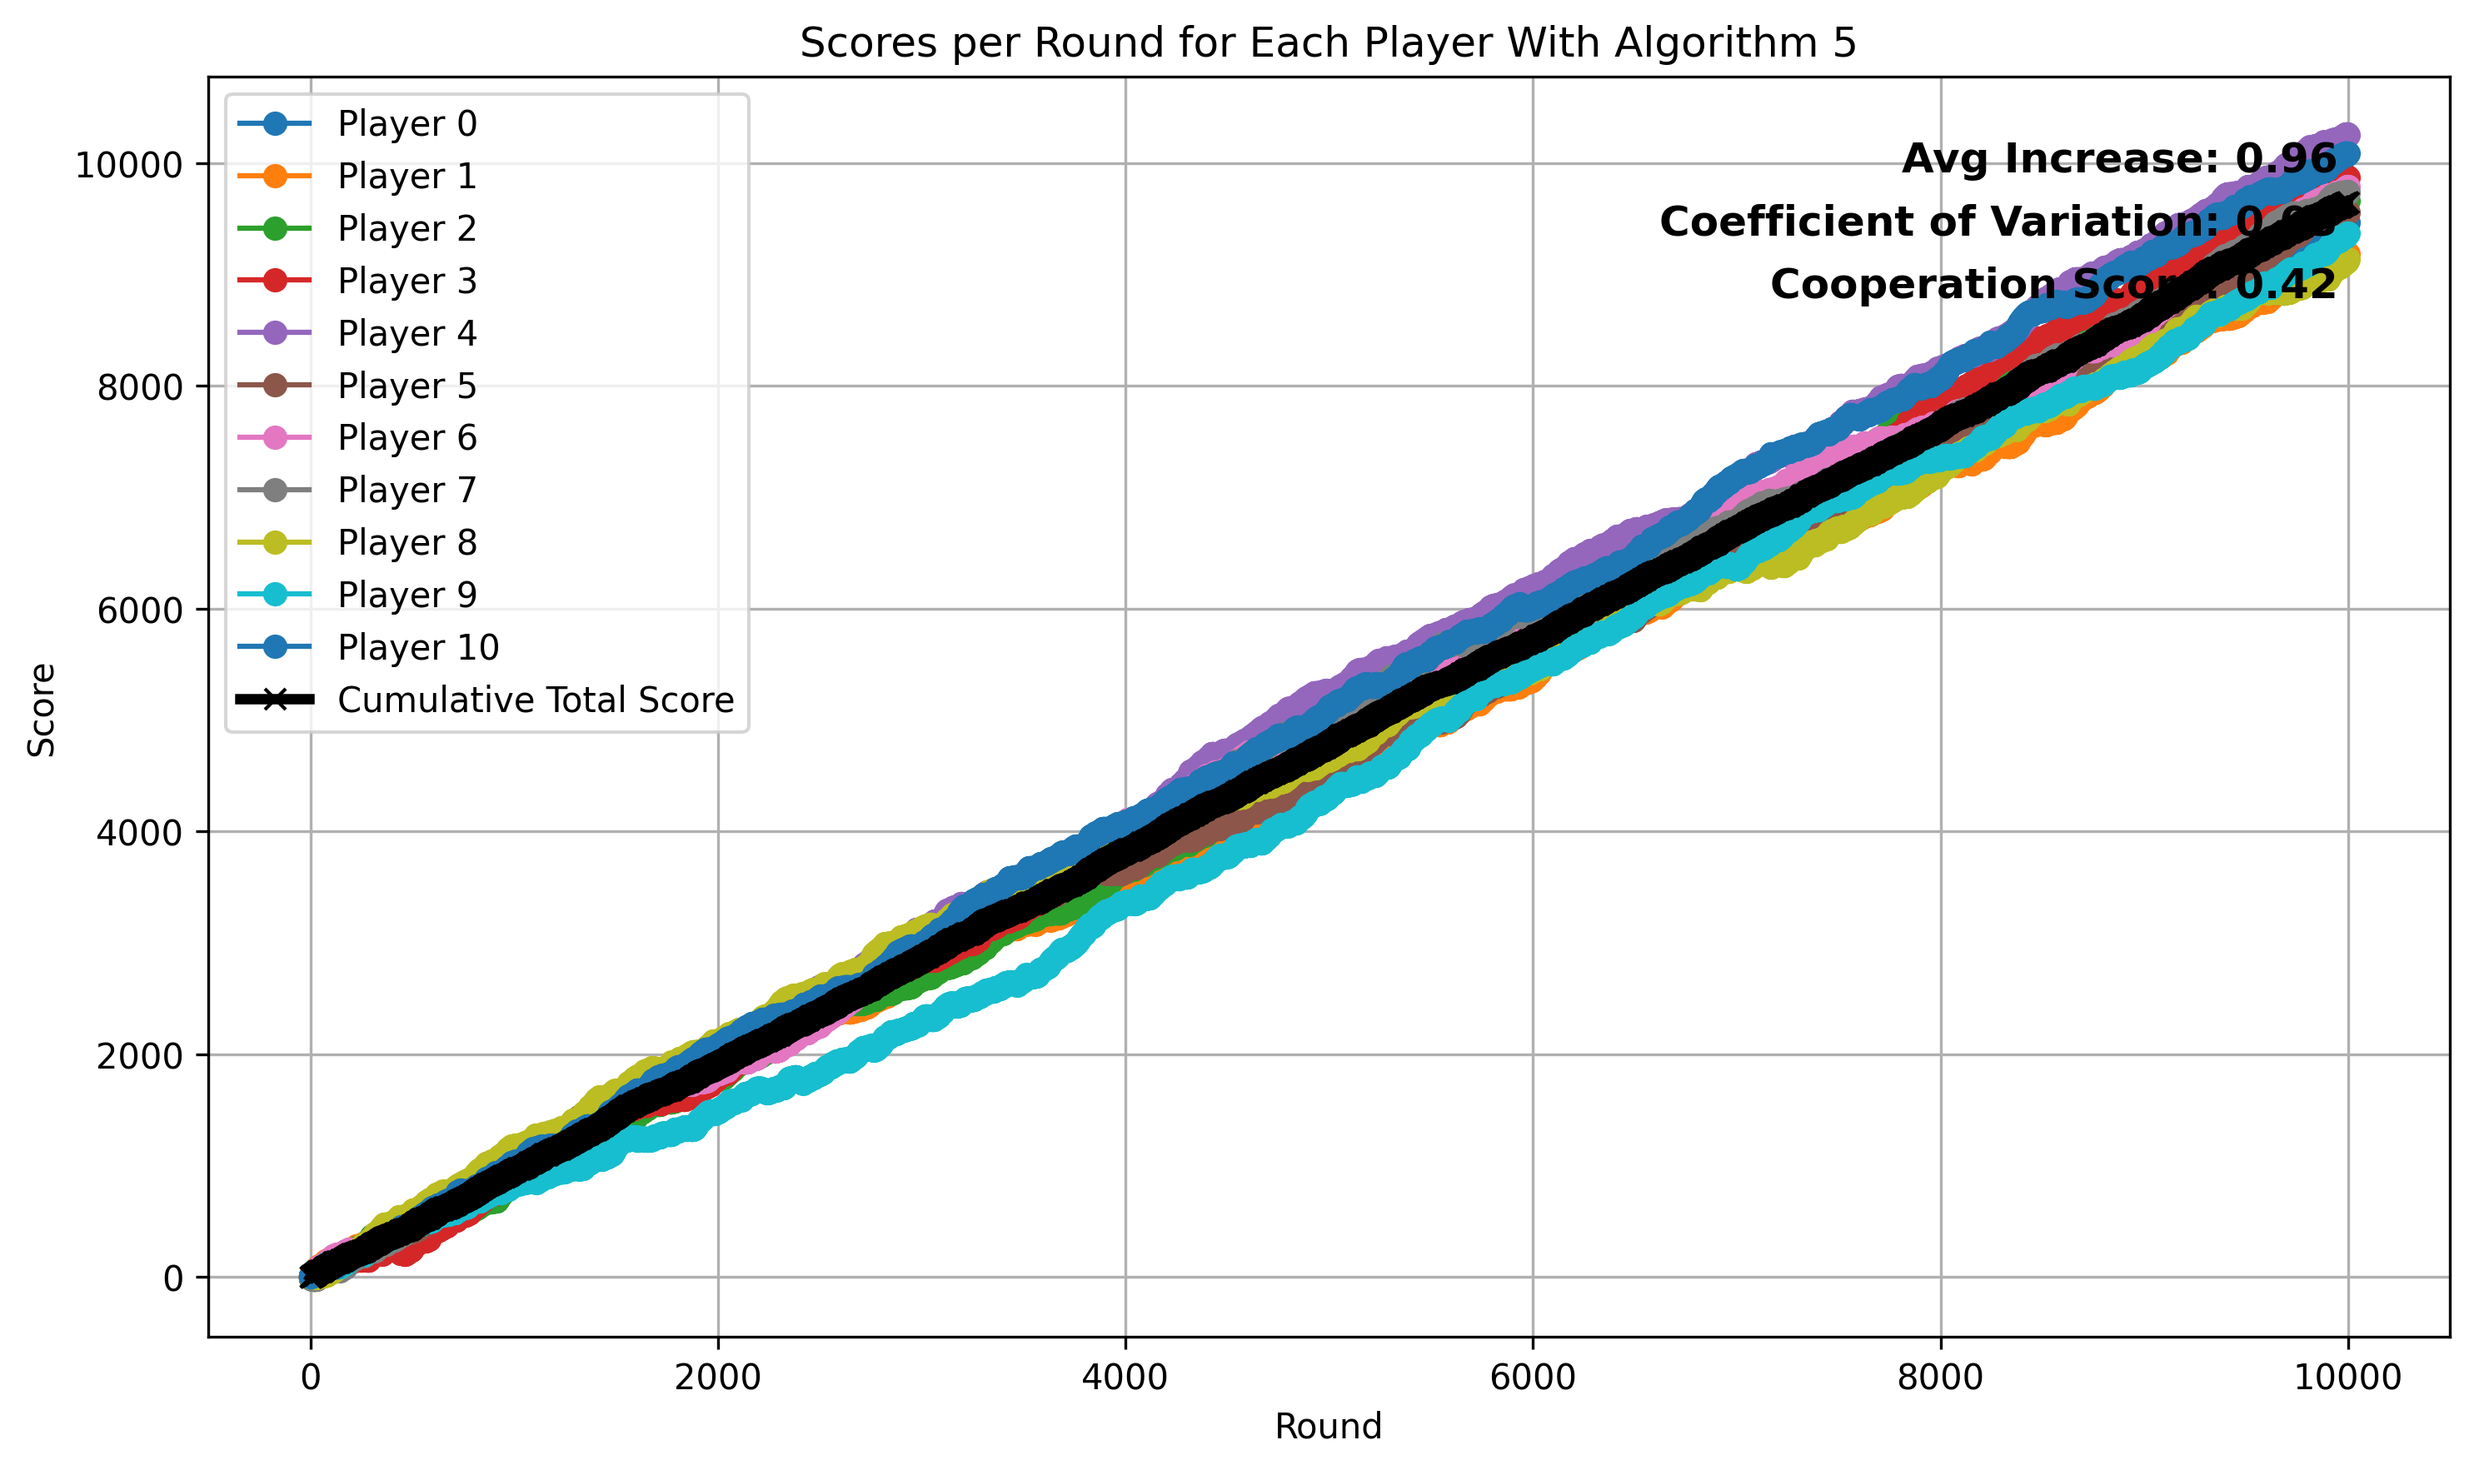
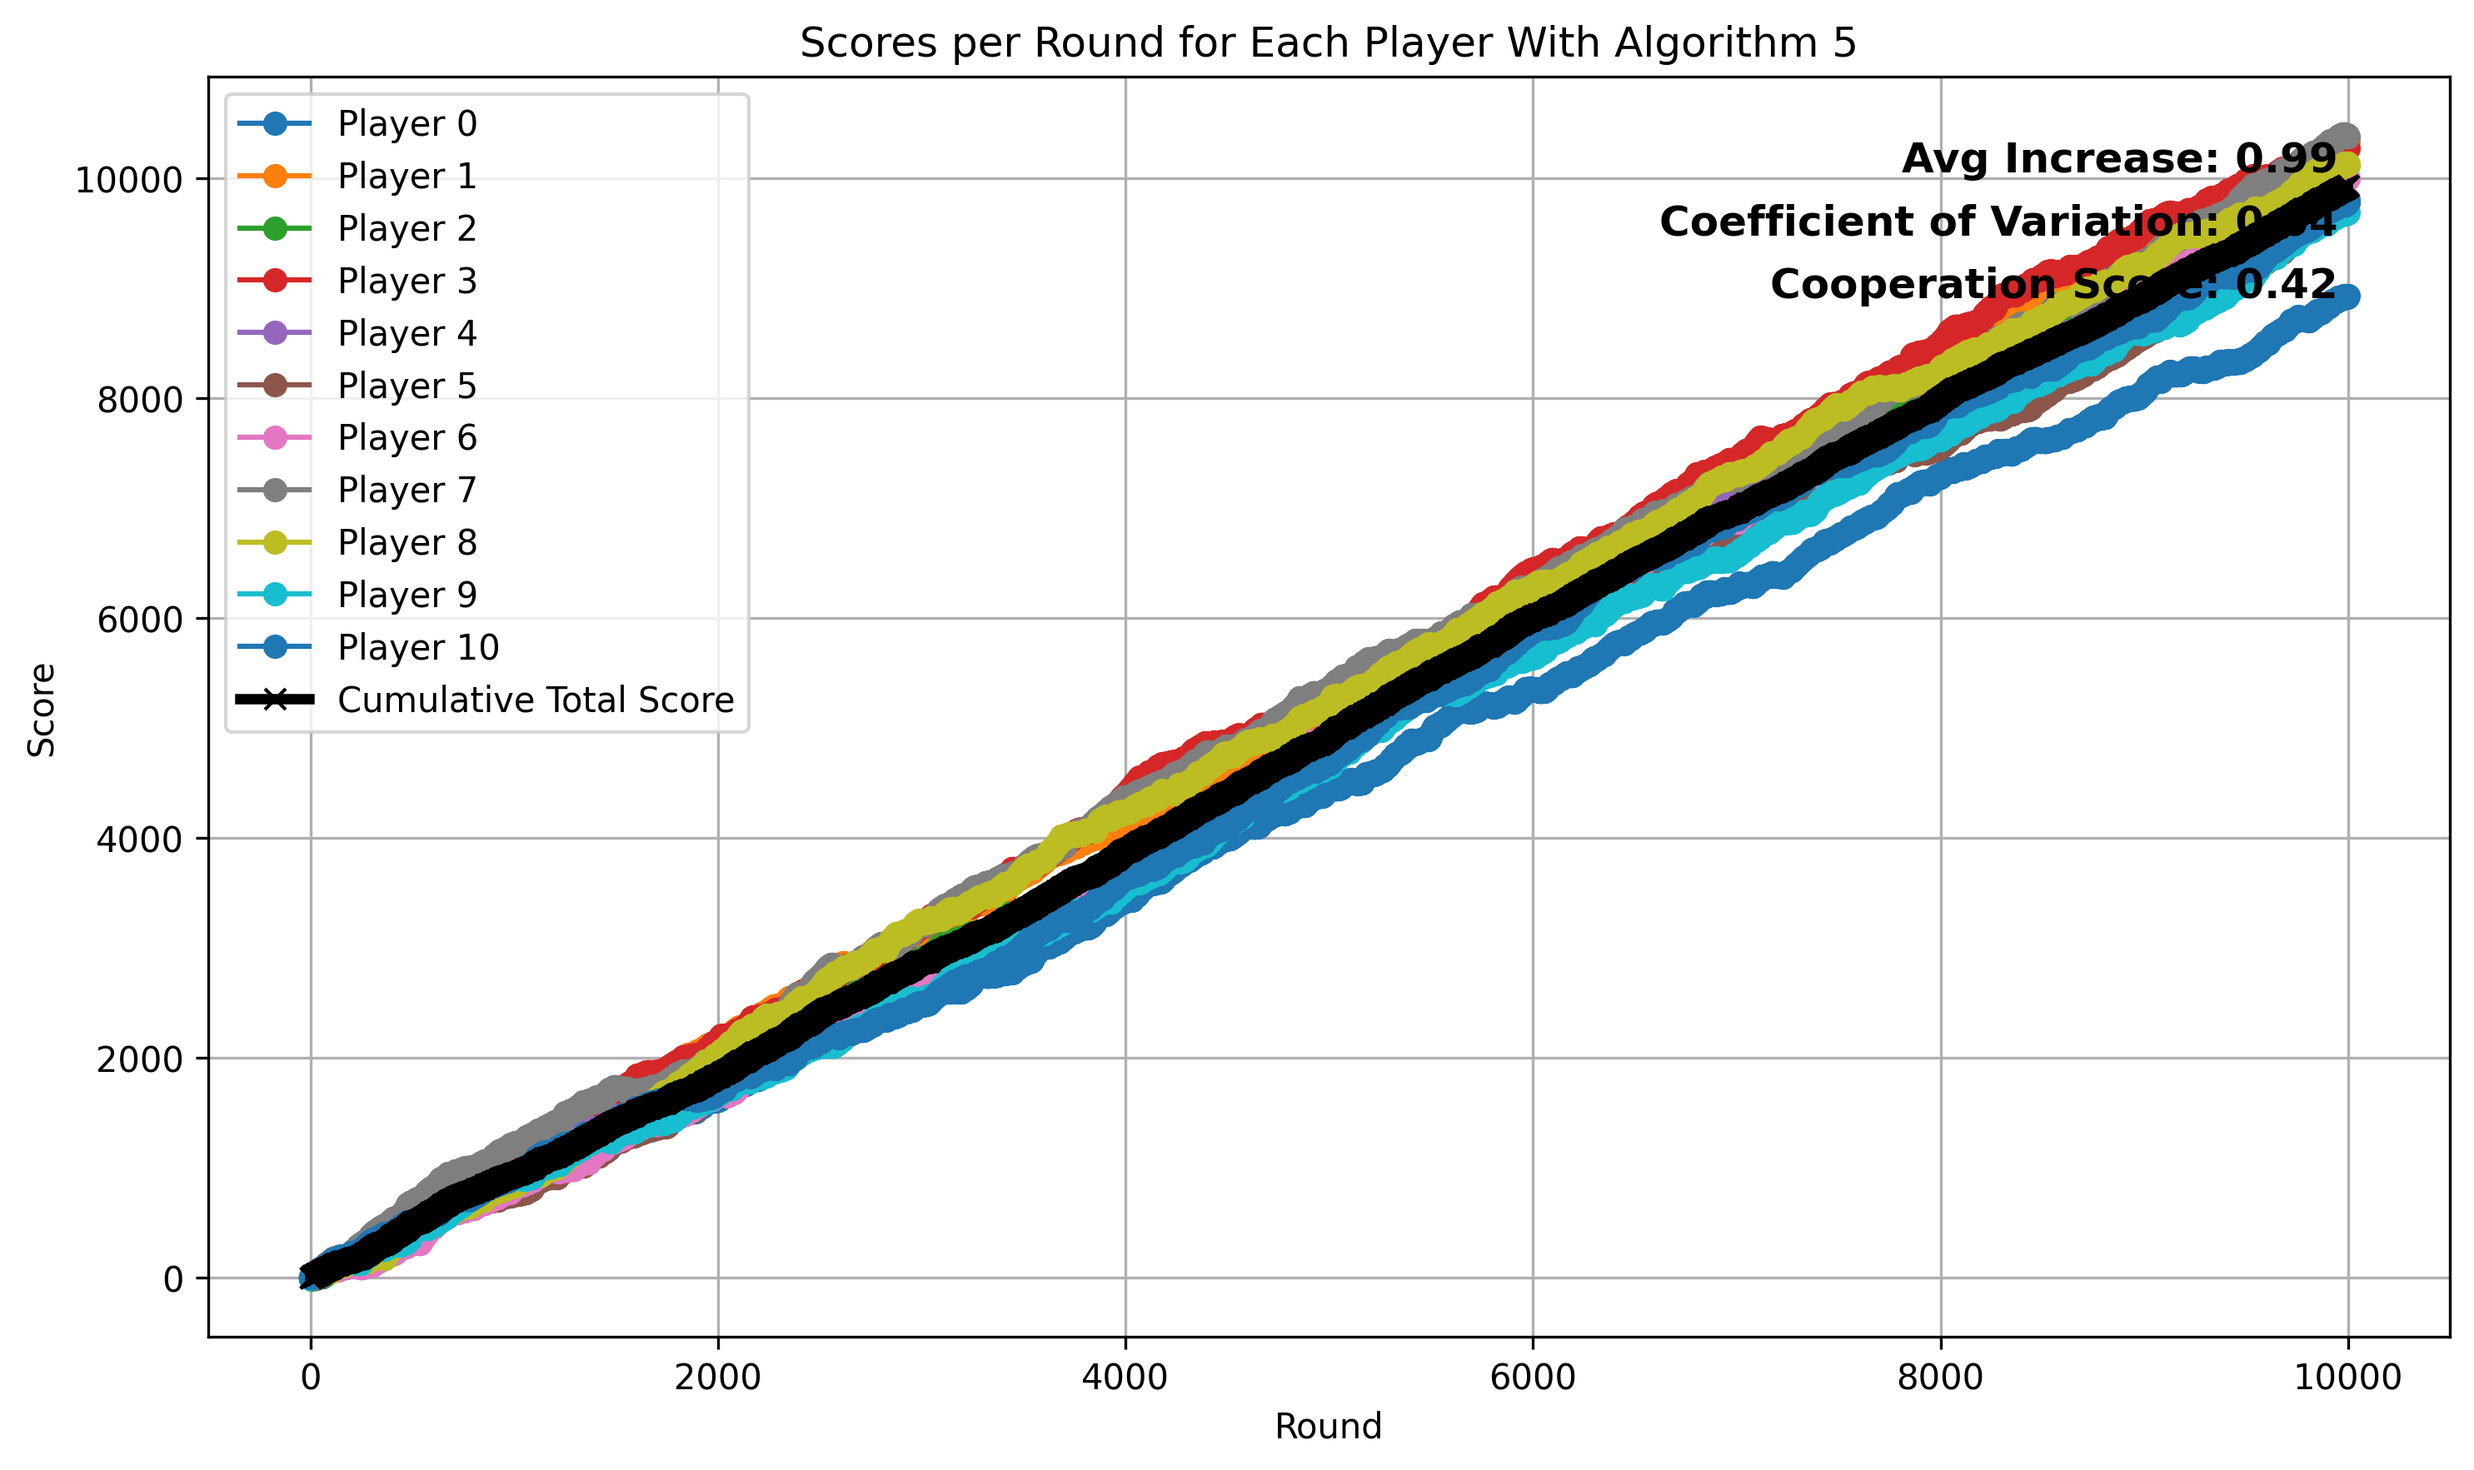
optimized and added a risk factor
right now its called risk aversion, but its hard to really say what it is. more like how much the bot cares about probabilities. I'll let the other dudes mess with it.

diff --git a/Code/GeneSimulation_py/Server/Bots/betterGreedy.py b/Code/GeneSimulation_py/Server/Bots/betterGreedy.py
@@ -11,57 +11,45 @@ class betterGreedy:
         # so RISK adversity is MAX (1) and High (0). It's not implemented yet.
 
     def set_chromosome(self, chromosome):
-        pass
+        self.chromosome = chromosome
 
     # here is what teh scturecture is going to look like. store an array, and at that index store the value of what they ahve voted for.
     def get_vote(self, big_boy_list, current_options_matrix):
-        mutable_current_options_matrix = copy.deepcopy(current_options_matrix)
-        for row in mutable_current_options_matrix:
-            row.insert(0, 0)
 
-        num_rows = len(mutable_current_options_matrix)
-        num_cols = len(mutable_current_options_matrix[0])
+        self_id = self.self_id
+        mutable_matrix = [[max(val + 1, 0) for val in [0] + row] for row in current_options_matrix]
 
-        for i in range(num_rows):
-            for j in range(num_cols):
-                if mutable_current_options_matrix[i][j] < 0:
-                    mutable_current_options_matrix[i][j] = 0
-                else: # to represent 0 in a way that makes sense.
-                    mutable_current_options_matrix[i][j] += 1
+        # Normalize each row
+        for row in mutable_matrix:
+            total = sum(row)
+            if total > 0:
+                for i in range(len(row)):
+                    row[i] /= total
 
-        # this then normalizes it.
-        for i in range(num_rows):
-            total_sum = sum(mutable_current_options_matrix[i])
-            for col in range(num_cols):
-                if mutable_current_options_matrix[i][col] > 0:
-                    mutable_current_options_matrix[i][col] /= total_sum
+        # Sum each column
+        num_cols = len(mutable_matrix[0])
+        col_sums = [sum(mutable_matrix[row][col] for row in range(len(mutable_matrix))) for col in range(num_cols)]
 
-        # now we sum up the columsn to find which column has the best shot of winning
-        total_column_values = []
-        for col in range(num_cols):
-            current_col_value = 0
-            for row in range(num_rows):
-                current_col_value += mutable_current_options_matrix[row][col]
-            total_column_values.append(current_col_value)
+        # Normalize column sums
+        col_total = sum(col_sums)
+        col_probs = [val / col_total for val in col_sums]
 
-        total_sum = sum(total_column_values)
-        total_column_values = [item / total_sum for item in total_column_values]
+        # Compute our new row
+        our_row = current_options_matrix[self_id]
+        new_row = [0]  # offset column 0
+        risk_aversion = self.chromosome[0]
+        for i, val in enumerate(our_row):
+            if val > 0:
+                #new_row.append(col_probs[i + 1] * val)
+                new_prob = col_probs[i + 1] ** risk_aversion
+                new_row.append(new_prob * val)
 
-        our_row = current_options_matrix[self.self_id] # gets us our current row
-        new_row = copy.deepcopy(our_row)
-        new_row.insert(0, 0)
-        for i in range(len(new_row)):
-            if i == 0:
-                new_row[i] = 0
             else:
-                if new_row[i] > 0:
-                    new_row[i] = total_column_values[i] * current_options_matrix[self.self_id][i-1] # to get the current utility
-                else:
-                    new_row[i] = 0
-        max_value = max(new_row)
-        max_index = new_row.index(max_value)
-        return max_index - 1 # off by 1 error.
+                new_row.append(0)
 
+
+        # Return index of max value, correcting for offset
+        return new_row.index(max(new_row)) - 1
 
 
 

diff --git a/Code/GeneSimulation_py/Server/social_choice_test.py b/Code/GeneSimulation_py/Server/social_choice_test.py
@@ -14,9 +14,7 @@ from pathlib import Path
 if __name__ == "__main__":
     bot_type = 5 # 1 is pareto, 2 is greedy, 3 is GT, 4 is random
     sim = Social_Choice_Sim(11, 3, 0, bot_type)  # starts the social choice sim, call it whatever you want
-    current_file = "Bots/chromosomesToKeepAround/generation_7.csv"
-    df = pd.read_csv(current_file, comment="#")
-    chromosomes = [df.iloc[0, 1:].tolist()] * 11 # automatically selects the most fit singular instance from whatever chromosome.
+    chromosomes = [[1],[1],[1],[1],[1],[1],[1],[1],[1],[1],[1]]
 
     results = {}
     num_rounds = 10000
